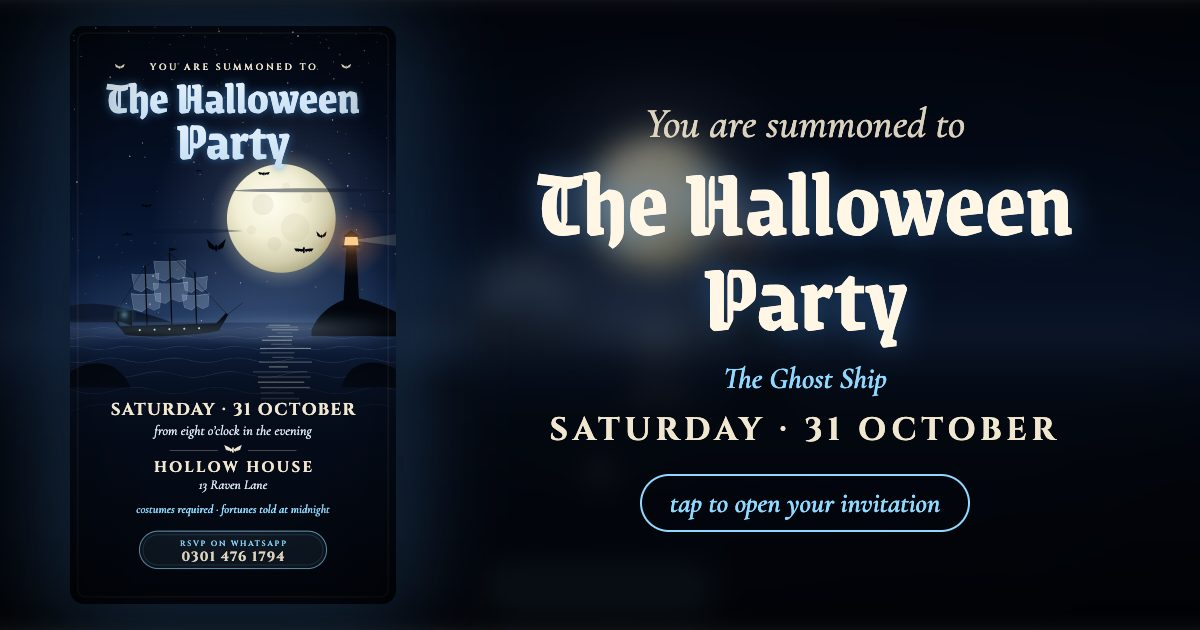
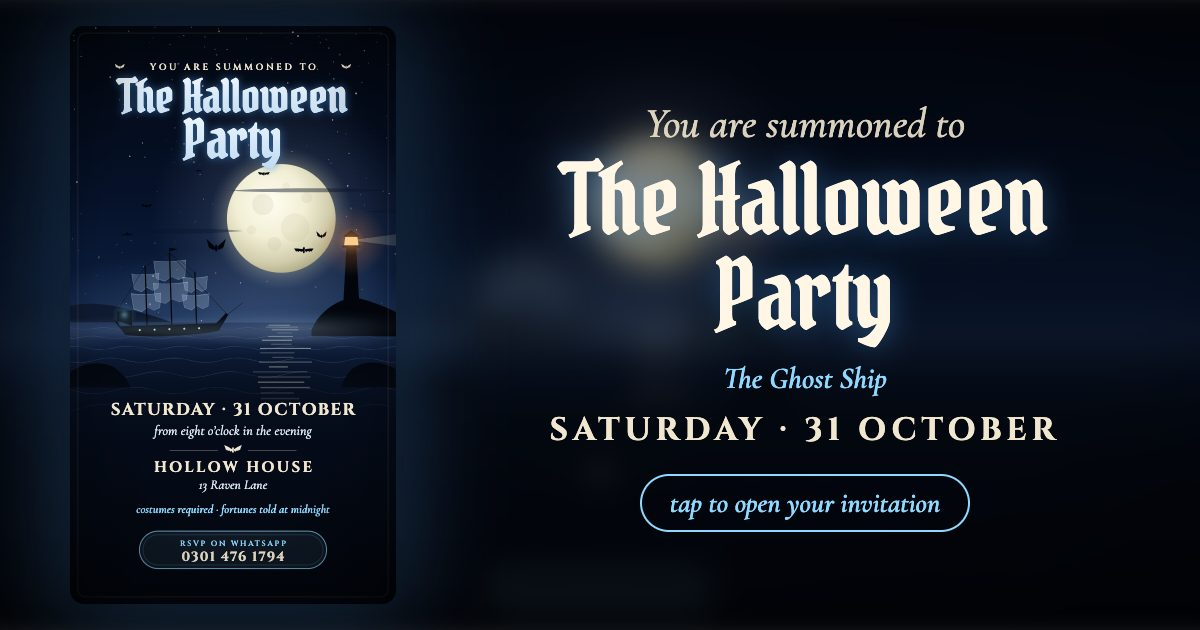
No RSVP box on any card; replies include a link to the card (WhatsApp shows its preview); button relabelled Reply

Changed region(s): [[0.4317, 0.2413, 0.8942, 0.573], [0.0925, 0.1206, 0.3083, 0.2714]]

diff --git a/index.html b/index.html
@@ -325,7 +325,7 @@
     <p class="deck-name" id="deck-name"></p>
     <div class="hero-bar">
       <button class="link-btn" id="replay" type="button">↻ replay the bats</button>
-      <a class="link-btn" href="#details">details &amp; RSVP ↓</a>
+      <a class="link-btn" href="#details">details &amp; reply ↓</a>
     </div>
   </div>
 
@@ -378,7 +378,7 @@
   <button class="fab" id="fab" type="button" aria-expanded="false" aria-controls="fab-menu">
     <svg class="m" viewBox="0 0 24 24" fill="none" stroke="currentColor" stroke-width="2" stroke-linecap="round" stroke-linejoin="round"><path d="M3 7l9 6 9-6"/><rect x="3" y="5" width="18" height="14" rx="2"/></svg>
     <svg class="x" viewBox="0 0 24 24" fill="none" stroke="currentColor" stroke-width="2.2" stroke-linecap="round"><path d="M6 6l12 12M18 6L6 18"/></svg>
-    RSVP
+    Reply
   </button>
 </div>
 <div class="toast" id="toast">Link copied</div>
@@ -460,7 +460,7 @@ const cards = HauntCard.THEMES.map((theme, i) => {
 function build(i) {
   const c = cards[i];
   if (c && !c.card) {
-    c.card = HauntCard.create(c.svg, { theme: c.theme, lite: true, party, rsvp: INVITE < 0 }); // shared links leave the RSVP off the card
+    c.card = HauntCard.create(c.svg, { theme: c.theme, lite: true, party });
     c.card.ready.then(() => { if (c.clock === null) c.card.setTime(c.at); });
   }
   return c;
@@ -515,6 +515,8 @@ function setActive(i) {
   document.querySelectorAll('.dot').forEach((d, k) => d.setAttribute('aria-current', k === i ? 'true' : 'false'));
   $('deck-name').textContent = `${HauntCard.themeNames[cards[i].theme]} · ${i + 1} of ${cards.length}`;
   $('prev').disabled = i === 0; $('next').disabled = i === cards.length - 1;
+  if (typeof updateReplies === 'function' && window.__repliesReady) updateReplies();
+window.__repliesReady = true;
   if (viewing) showInViewer();
 }
 deck.addEventListener('scroll', () => setActive(Math.round(deck.scrollLeft / deck.clientWidth)), { passive: true });
@@ -737,11 +739,10 @@ $('fab-cal').addEventListener('click', () => { setFab(false); addToCalendar(); }
 for (const id of ['fab-yes', 'fab-no', 'fab-map']) $(id).addEventListener('click', () => setTimeout(() => setFab(false), 300));
 
 if (INVITE >= 0) setTimeout(() => { // after the rest of the page script has run
-  $('fab-yes').href = $('btn-yes').href; $('fab-no').href = $('btn-no').href; $('fab-map').href = $('btn-map').href;
+  updateReplies(); $('fab-map').href = $('btn-map').href;
   setTimeout(() => $('fab-wrap').classList.add('ready'), (HauntCard.INTRO + 0.4) * 1000); // appears once the intro has played
   document.body.classList.remove('locked', 'splash');
   entered = true;
-  $('act-rsvp').href = wa(`Hello! 🦇 I have received my summons and I WILL attend ${PARTY.title} on ${PARTY.dateText}. Name: `);
   openViewer();
   cards[INVITE].card.ready.then(replay);
 }, 0);
@@ -771,8 +772,15 @@ $('rsvp-by').textContent = PARTY.rsvpBy ? `${PARTY.rsvpBy}. Your reply goes to $
 
 /* ---------- RSVP via WhatsApp ---------- */
 const wa = text => `https://wa.me/${PARTY.whatsapp.replace(/\D/g, '')}?text=${encodeURIComponent(text)}`; // empty number -> guest picks a chat
-$('btn-yes').href = wa(`Hello! 🦇 I have received my summons and I WILL attend ${PARTY.title} on ${PARTY.dateText}. Name: `);
-$('btn-no').href = wa(`Hello, sadly I cannot make it to ${PARTY.title} on ${PARTY.dateText}. Have a wonderfully spooky night! 🎃`);
+const replyYes = link => wa(`Hello! 🦇 I have received my summons and I WILL attend ${PARTY.title} on ${PARTY.dateText}.\nName: \n\nMy invitation: ${link}`);
+const replyNo = link => wa(`Hello, sadly I cannot make it to ${PARTY.title} on ${PARTY.dateText}. Have a wonderfully spooky night! 🎃\n\nMy invitation: ${link}`);
+function updateReplies() {
+  const link = cardLink(cards[active]);
+  $('btn-yes').href = replyYes(link); $('btn-no').href = replyNo(link);
+  $('fab-yes').href = replyYes(link); $('fab-no').href = replyNo(link);
+  $('act-rsvp').href = replyYes(link);
+}
+updateReplies();
 
 /* ---------- directions ---------- */
 $('btn-map').href = `https://www.google.com/maps/dir/?api=1&destination=${encodeURIComponent(PARTY.mapsQuery)}`;

diff --git a/art.js b/art.js
@@ -138,7 +138,7 @@
   function create(svg, opts = {}) {
     const T = THEMES[opts.theme] || THEMES.manor;
     const theme = THEMES[opts.theme] ? opts.theme : 'manor';
-    const OPT = { text: opts.text !== false, grain: !!opts.grain, lite: !!opts.lite, rsvp: opts.rsvp !== false };
+    const OPT = { text: opts.text !== false, grain: !!opts.grain, lite: !!opts.lite, rsvp: opts.rsvp === true }; // the RSVP box is off unless asked for
     const P = Object.assign({}, DEFAULT_PARTY, opts.party || {});
     const MOON = T.moon;
     svg.setAttribute('viewBox', `0 0 ${W} ${H}`);
